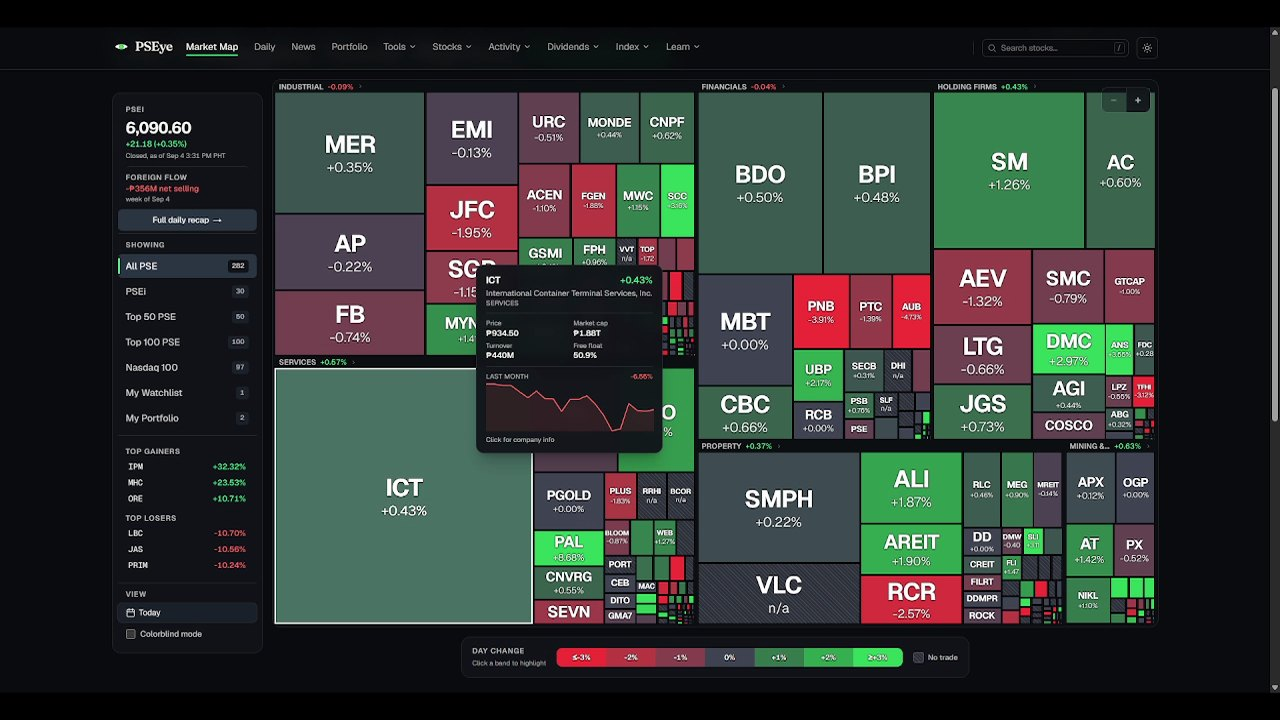
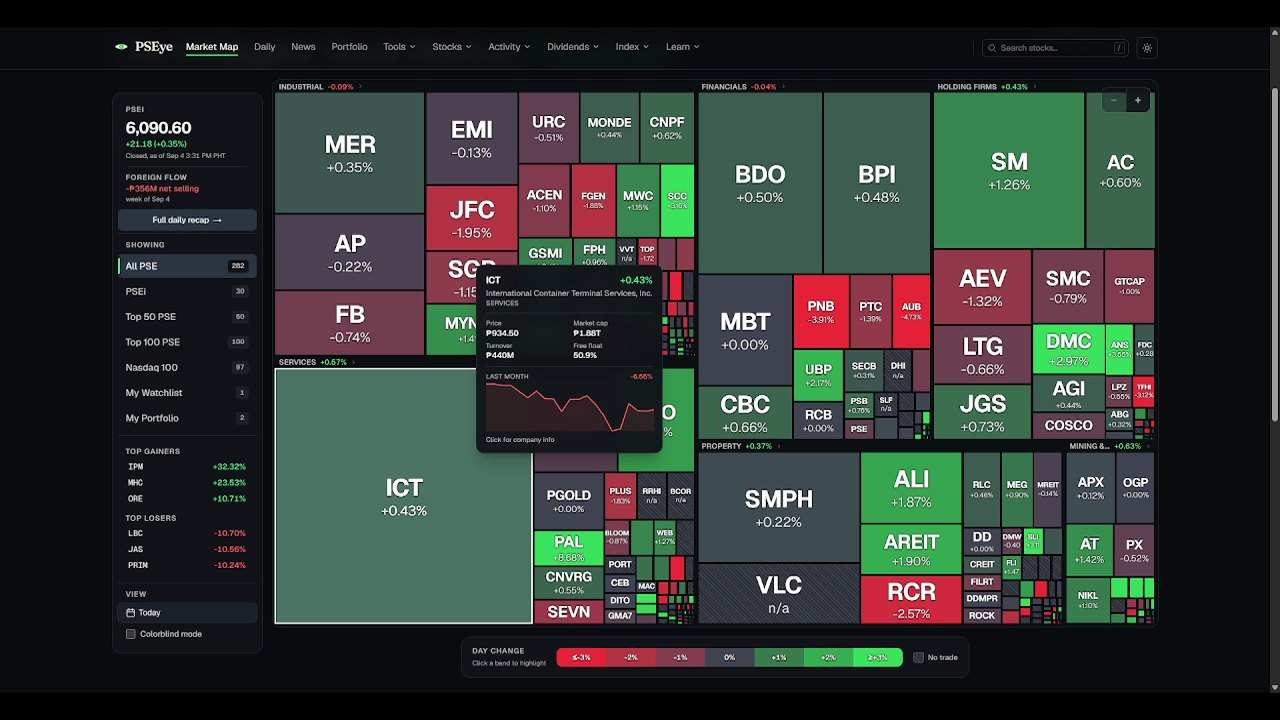
Stop shipping the PSEye poster to everyone who never opens PSEye
Chrome fetches a video poster the moment the attribute exists, and it does
not care that the pane is display:none. The result was that every visitor
landing on about.md pulled 134 kB for a still frame of a page they had not
clicked on: 54% of the whole first load, for the one file guaranteed to be
useless to them.

The poster now ships as data-poster and app.js attaches it on the first open
of the PSEye pane, which is also the moment the 6.7 MB recording starts, so
it costs nothing that was not already being spent. Re-encoded at the same
dimensions to 81 kB.

First load drops from 247 kB to 113 kB.

Claude-Session: https://claude.ai/code/session_01WwWCoGCqz2jEbdHzCWhPbR

diff --git a/index.html b/index.html
@@ -51,7 +51,7 @@
 <link rel="preload" as="style" href="https://fonts.googleapis.com/css2?family=Inter:wght@400;500;600&family=JetBrains+Mono:wght@400;500&display=swap">
 <link rel="stylesheet" href="https://fonts.googleapis.com/css2?family=Inter:wght@400;500;600&family=JetBrains+Mono:wght@400;500&display=swap" media="print" onload="this.media='all';this.onload=null">
 <noscript><link rel="stylesheet" href="https://fonts.googleapis.com/css2?family=Inter:wght@400;500;600&family=JetBrains+Mono:wght@400;500&display=swap"></noscript>
-<link rel="stylesheet" href="assets/css/style.css?v=50">
+<link rel="stylesheet" href="assets/css/style.css?v=51">
 
 <script type="application/ld+json">
 {
@@ -382,8 +382,12 @@
                  missing or unplayable file leaves no empty player behind. -->
             <figure class="demo" id="pseyeDemo" hidden>
               <div class="demo-crop">
+                <!-- The poster is data-, not poster=: Chrome fetches a poster the
+                     moment the attribute exists, even with the pane display:none,
+                     so every visitor to about.md was paying 130 kB for a frame of
+                     a page they had not opened. app.js attaches it on first open. -->
                 <video class="demo-video" muted loop playsinline preload="metadata"
-                       poster="images/pseye/demo-poster.jpg"
+                       data-poster="images/pseye/demo-poster.jpg"
                        aria-label="Silent looping screen recording of PSEye being used: the market map, a company page, and the daily recap">
                   <source src="media/pseye-demo.mp4" type="video/mp4">
                 </video>
@@ -886,6 +890,6 @@
   </div>
 </div>
 
-<script src="assets/js/app.js?v=50"></script>
+<script src="assets/js/app.js?v=51"></script>
 </body>
 </html>

diff --git a/assets/js/app.js b/assets/js/app.js
@@ -135,6 +135,7 @@
     renderTabs();
     renderPager();
     if (id === 'resume') mountPdf();
+    if (id === 'pseye') armDemo();
     syncDemo();
     syncNodes();
 
@@ -666,6 +667,15 @@
        sees no intersection change on the way back, so the recording would
        stay stopped after a trip to another tab. Re-sync on the way in. */
     document.addEventListener('visibilitychange', syncDemo);
+  }
+
+  /* The poster is 80 kB and the browser fetches it as soon as the attribute
+     exists, pane hidden or not, so it ships as data-poster and is attached
+     here on the first visit to the page that actually shows it. */
+  function armDemo() {
+    if (!demoVid || !demoVid.dataset.poster) return;
+    demoVid.poster = demoVid.dataset.poster;
+    delete demoVid.dataset.poster;
   }
 
   /* The single place that decides whether the recording is running. */

diff --git a/IMPROVEMENTS.md b/IMPROVEMENTS.md
@@ -30,7 +30,7 @@ continue. Each is easy to reverse.
 
 ## P0 , broken or wrong
 
-- [ ] **1. The PSEye poster image loads on every visit (134 KB, 54% of first-load
+- [x] **1. The PSEye poster image loads on every visit (134 KB, 54% of first-load
   weight).** `<video poster>` is fetched by Chrome even though `#pane-pseye` is
   `display:none`, so every visitor to about.md pays for an image on a page they have
   not opened. Move the poster to JS on first open of the pane, and re-encode it.
